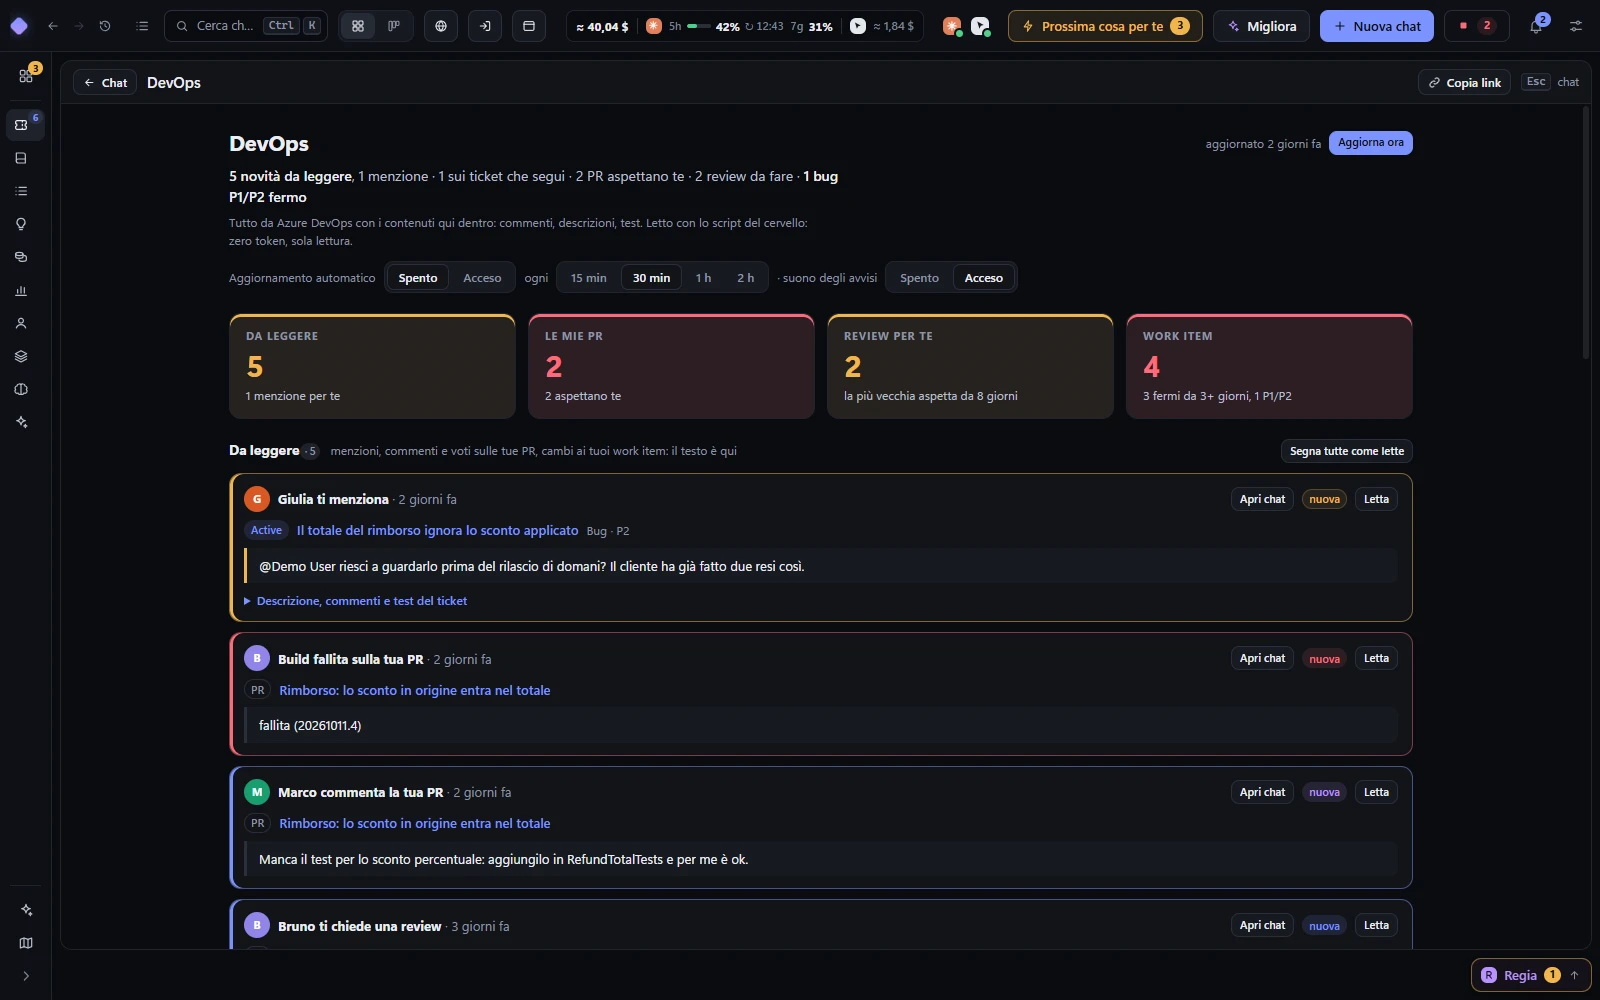
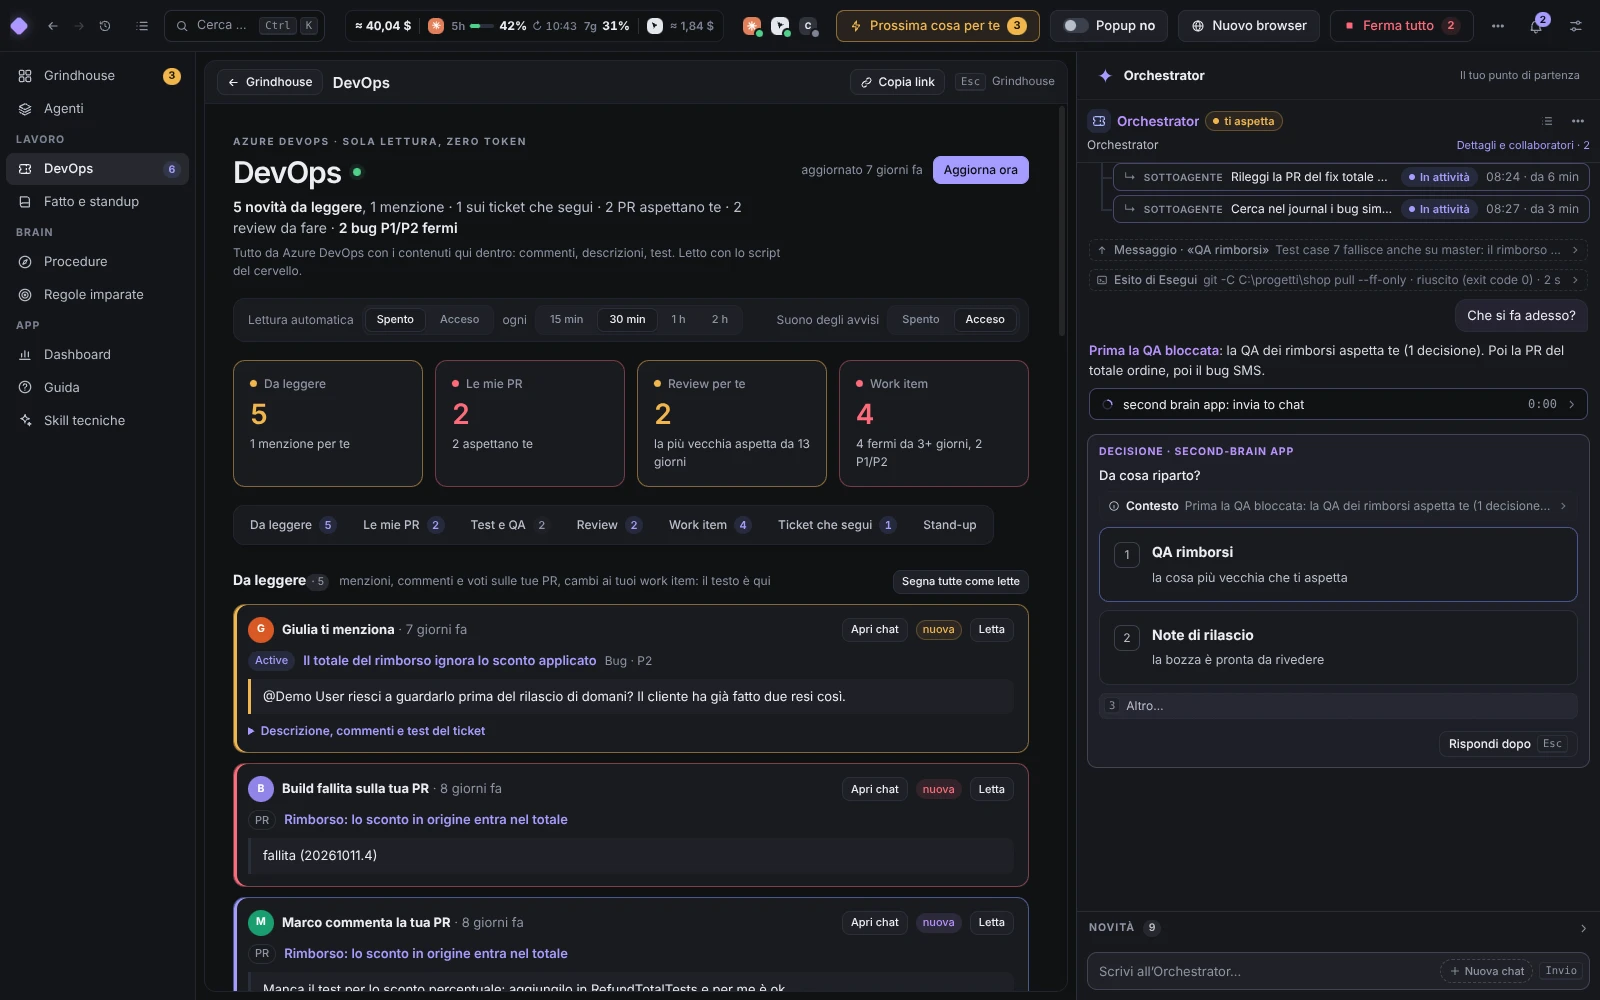
docs(readme): fresh screenshots after the Agenti and DevOps redesigns, an Agenti section; software WebGL switch for shots
SB_E2E_ELECTRON_ARGS passes Chromium switches to the e2e and shots launch, so the 3D map
renders in a GPU-less Linux container.

diff --git a/test/e2e/helpers.ts b/test/e2e/helpers.ts
@@ -42,7 +42,9 @@ function fastClose(app: ElectronApplication, userData: string): void {
 export async function launch(env: Record<string, string> = {}, userData = fs.mkdtempSync(path.join(os.tmpdir(), 'sb-e2e-'))): Promise<Launched> {
   await exiting.get(userData); // the previous app on this profile is still ending
   const app = await electron.launch({
-    args: ['.'],
+    // SB_E2E_ELECTRON_ARGS: extra Chromium switches for a machine without a GPU, e.g. a Linux container where the 3D
+    // map needs software WebGL: "--use-angle=swiftshader --enable-unsafe-swiftshader"
+    args: [...(process.env.SB_E2E_ELECTRON_ARGS ?? '').split(/\s+/).filter(a => /^--[\w-]+(=[\w.-]+)?$/.test(a)), '.'],
     cwd: path.resolve(import.meta.dirname, '..', '..'),
     // SB_HIDDEN: the app runs off screen and never takes focus (the user keeps working while tests run)
     env: { ...process.env, SB_USER_DATA: userData, SB_MCP_PORT: '0', SB_TEST: '1', SB_HIDDEN: '1', SB_LANG: 'it', ...env } as Record<string, string>,

diff --git a/test/shots/readme.spec.ts b/test/shots/readme.spec.ts
@@ -72,6 +72,14 @@ test('README screenshots', async () => {
   await waitThumbs(page);
   await save('mosaic');
 
+  // 1b. Agenti: the agent catalog as cards, with the changes waiting for the user's approval
+  await page.getByTestId('nav-agenti').click();
+  await expect(page.getByTestId('agent-overview')).toBeVisible({ timeout: 30_000 });
+  await waitThumbs(page);
+  await save('agents');
+  await goPage(page, 'home');
+  await expect(page.getByTestId('view-agents')).toBeVisible();
+
   // 2. The Orchestrator: the coordinating chat, in its column on the right, with its decision waiting
   await openRegia(page);
   await waitThumbs(page);

diff --git a/README.md b/README.md
@@ -140,8 +140,15 @@ and the browser an agent drives sits right under it.
 ![The Orchestrator, in its column on the right, with a decision waiting](docs/screenshots/regia.webp)
 
 The Orchestrator is the chat you talk to first. It knows every agent, starts new ones from your agent catalog, routes
-mail between them and tells you what needs you. Agents learn from cost, time and outcome, and every change to an agent
-waits for your approval in the **Agenti** section.
+mail between them and tells you what needs you.
+
+### Agents that improve, under your approval
+
+![The Agenti page: the catalog of agents as cards, with runs, success and cost](docs/screenshots/agents.webp)
+
+Each agent is a card with its role, engine, model and observed results (runs, success, cost); its details show the
+whole prompt that makes it that agent. Agents learn from cost, time and outcome, and every proposed change to an agent
+waits in **Agenti** until you approve it.
 
 ### Browsers your agents drive
 

diff --git a/CONTRIBUTING.md b/CONTRIBUTING.md
@@ -17,7 +17,8 @@ in with your own account; the demo and every test except `test/live` need neithe
 
 Useful environment variables: `SB_DEMO=1` (fake services), `SB_DEMO_FREEZE=1` (fixed clock and data),
 `SB_HIDDEN=1` (window off screen and never focused: agents and tests), `SB_USER_DATA=<dir>` (an isolated profile),
-`SB_BRAIN=<dir>` (a brain folder), `SB_MCP_PORT=0` (a random MCP port).
+`SB_BRAIN=<dir>` (a brain folder), `SB_MCP_PORT=0` (a random MCP port). On a machine without a GPU (a Linux container)
+the 3D map in the e2e and `npm run shots` needs software WebGL: `SB_E2E_ELECTRON_ARGS="--use-angle=swiftshader --enable-unsafe-swiftshader"`.
 
 Your own brain starts from the template in this repo: `node brain-template/install.mjs` (see the README).
 
